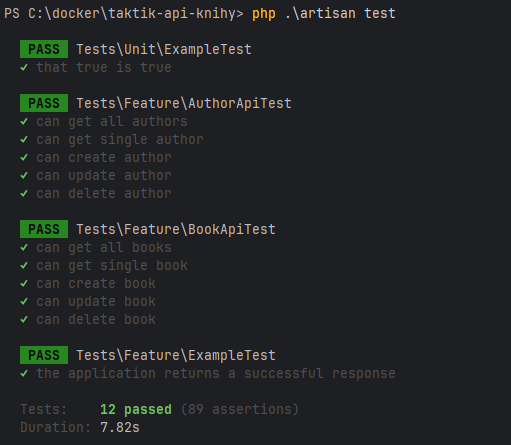
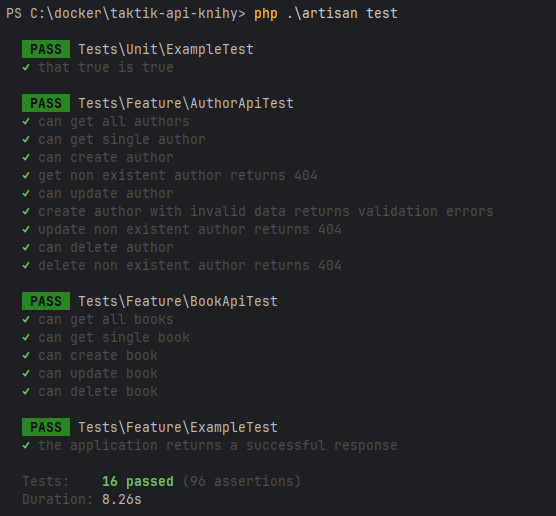
více testů

diff --git a/tests/Feature/AuthorApiTest.php b/tests/Feature/AuthorApiTest.php
@@ -81,6 +81,15 @@ class AuthorApiTest extends TestCase
         ]);
     }
 
+    public function test_get_non_existent_author_returns_404(): void
+    {
+        // Pokus o načtení neexistujícího autora
+        $response = $this->getJson(route('authors.show', ['author' => 99999]));
+
+        // Očekáváme, že API vrátí 404
+        $response->assertStatus(404);
+    }
+
     public function test_can_update_author(): void
     {
         // Vytvoření autora
@@ -115,6 +124,32 @@ class AuthorApiTest extends TestCase
         ]);
     }
 
+    public function test_create_author_with_invalid_data_returns_validation_errors(): void
+    {
+        // Odeslání prázdných dat, kdy povinné hodnoty chybí
+        $response = $this->postJson(route('authors.store'), []);
+
+        // Ověření, že API vrátí 422 a chybová hlášení pro povinná pole
+        $response->assertStatus(422)
+            ->assertJsonValidationErrors(['name', 'surname']);
+    }
+
+
+    public function test_update_non_existent_author_returns_404(): void
+    {
+        // Data pro aktualizaci, kdy autor neexistuje
+        $updateData = [
+            'name'    => 'Test',
+            'surname' => 'Testovský'
+        ];
+
+        // Pokus o aktualizaci neexistujícího autora
+        $response = $this->putJson(route('authors.update', ['author' => 999]), $updateData);
+
+        // Ověření, že API vrátí 404
+        $response->assertStatus(404);
+    }
+
     public function test_can_delete_author(): void
     {
         // Vytvoření autora
@@ -131,4 +166,14 @@ class AuthorApiTest extends TestCase
             'id' => $author->id
         ]);
     }
+
+    public function test_delete_non_existent_author_returns_404(): void
+    {
+        // Pokus o smazání neexistujícího autora
+        $response = $this->deleteJson(route('authors.destroy', ['author' => 99999]));
+
+        // Ověření, že API vrátí 404
+        $response->assertStatus(404);
+    }
+
 }
